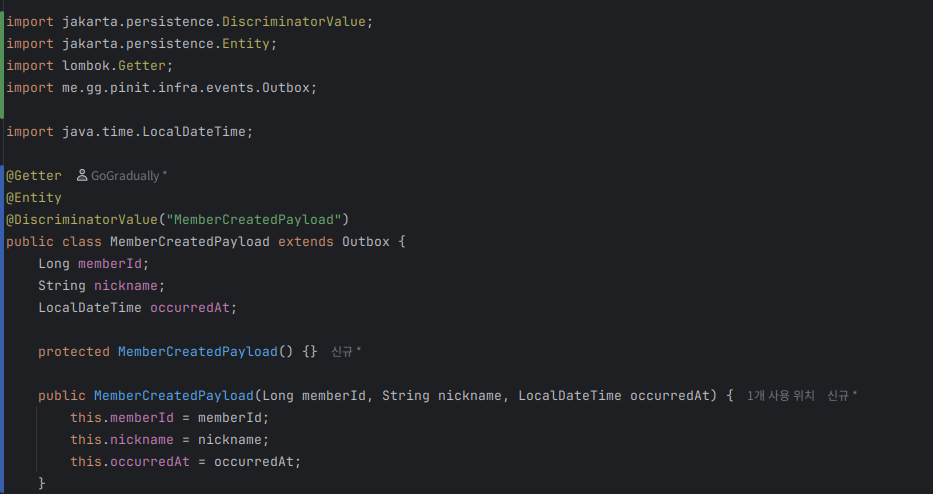
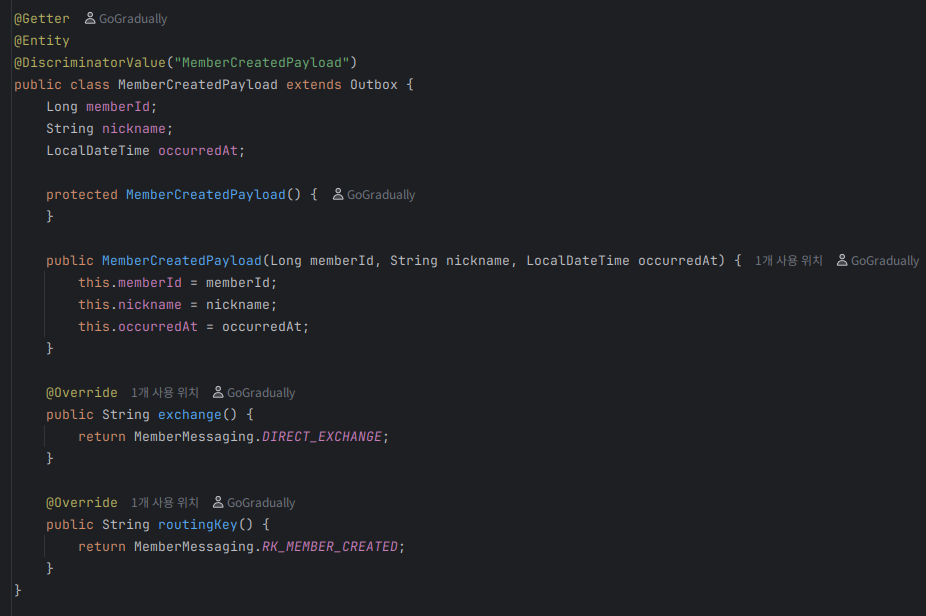
docs: 최종 일관성 도입 과정 문서 작성

diff --git a/planning/signupflow/signupPlan.md b/planning/signupflow/signupPlan.md
@@ -1,0 +1,161 @@
+## 회원가입 플로우, 이대로 괜찮은가? - 정합성 문제 해결 방안
+
+### 현재 구조
+
+```mermaid
+sequenceDiagram
+    participant user
+    participant pinit-auth
+participant pinit-task
+
+user->>pinit-auth: POST /signup (email, password)
+pinit-auth->>pinit-auth: create user record (inactive)
+pinit-auth--)pinit-task: 필요한 정보 전달
+pinit-auth->>user: 200 OK (signup initiated)
+user->>pinit-task: GET /myInfo
+pinit-task->>pinit-task: verify token
+pinit-task-->>user: 200 OK (user info)
+
+```
+
+### 문제 상황
+
+사용자가 이벤트가 도착하기 전 / 도착한 후의 처리 분류
+
+이미 로그인 성공은 확정이라고 가정
+
+로그인 성공 - 도착한 후
+
+- task 서버에서 사용자 정보를 정상 처리
+    - 정상 플로우
+
+로그인 성공 - 도착하기 전
+
+- task 서버에서 auth 서버에서 처리한 사용자 정보를 아직 못받음
+- 일정을 생성할 수 없음(예외 발생)
+    - 사용자의 지역 정보를 받아와야 하는데, user record 자체가 없음
+- 별명도 존재하지 않음
+
+task, auth 서버 간의 문제다.
+별명 정보는 필수가 아님.
+진짜 문제는 일정 생성이다.
+
+id값을 위조한 JWT 토큰은 만들 수 없다. (회원 탈퇴 후 기존 JWT를 사용하는 경우는 고려하지 않음)
+따라서, 해당 일정 조회는 해당 id가 있다고 가정하고 수행하는 것이 옳다.
+
+#### 선택지 1: task에서 ‘자동 프로비저닝’(Read-through / Lazy create)
+
+- task가 일정 조회 요청을 받았는데 user가 없으면
+    - auth(또는 user profile 서비스)로부터 최소정보를 조회하여 즉시 user를 생성 후 진행
+- 장점: UX/핵심 기능 보호, 이벤트 누락에도 복원 가능
+- 단점: task가 auth에 의존(런타임 결합)
+
+#### 선택지 2: 최종 일관성 유지 + 명확한 “준비중” 응답과 재시도
+
+- user가 없으면 404/500 대신 503 Service unavailable / 도메인 에러코드(USER_NOT_READY) 같은 형태로 반환
+    - 클라이언트 또는 BFF가 짧은 재시도(backoff) 후 재호출
+- 장점: 의존성 최소화, 상태가 명시적
+- 단점: UX에 재시도 로직 필요, 최종 일관성이 반드시 보장되어야 한다는 전제 필요
+    - 트랜잭션 아웃박스 패턴 설계 필요
+
+gRPC를 이용한 추가적 런타임 의존성 결합보단, 최종 일관성 유지 + 명확한 준비중 응답이 더 나아 보인다.
+
+실제로 자주 발생하지는 않을 예외이다. 이벤트 처리가 그렇게까지 느려진다면, 계산복잡도적 문제가 아닌 인프라 자체가 지나치게 안좋은 문제에 가깝다.
+
+1. DB에 해당 이벤트 저장
+2. After_commit 후 비동기 트랜잭션 새로 열어서 해당 이벤트 발행 후 삭제
+
+- 이때, AFTER_COMMIT 이기 때문에 새 트랜잭션은 커밋된 해당 이벤트를 볼 수 있다.(READ_COMMITTED 격리 수준)
+- 이벤트 발행 성공 후 트랜잭션이 롤백되면, 한번 더 발행하면 된다. (수신 측의 중복 처리는 idempotent 하게 설계하면 가능하다)
+    - 지수적 백오프 재시도
+
+3. task 서버는 이벤트 수신 후 사용자 정보 업데이트
+
+---
+
+### 로직 변경 방안
+
+현재 코드에서는 도메인 이벤트 퍼블리셔로 RabbitDomainEventPublisher가 사용되고 있었다.
+
+![img_1.png](현재%20이벤트%20퍼블리셔.png)
+
+실제 이벤트 발행은 다음과 같았다.
+
+![img.png](도메인%20이벤트%20발행.png)
+
+#### 현재 로직
+
+1. 회원가입 트랜잭션 커밋
+2. 이벤트 발행
+3. AFTER_COMMIT 후 비동기 트랜잭션에서 이벤트 발행
+
+이제 이를 위에 설계한 형식대로 변경해야 한다.
+
+#### 변경할 로직
+
+1. 회원가입 트랜잭션 내에서 도메인 이벤트 기록 (즉, 더이상 AFTER_COMMIT이 아님, 비동기적으로 동작하지도 않음)
+2. 이벤트 기록 후, 이벤트 발행을 시도하는 비동기 AFTER_COMMIT 메소드 호출 -> 애플리케이션 이벤트 발행.
+3. 해당 애플리케이션 이벤트 리스너에서 발행해야 하는 이벤트의 ID를 받아서, 도메인 이벤트 발행 시도
+
+#### 기본 Event Publisher 변경
+
+1. 도메인 이벤트 퍼블리셔의 변경
+   ![img.png](도메인%20이벤트%20퍼블리셔%20변경.png)
+
+도메인 이벤트 퍼블리셔를 이제 스프링 애플리케이션 이벤트 퍼블리셔를 사용하도록 변경했다.
+
+2. 이벤트 메시지를 저장하는 리포지토리 추가.
+
+이 이벤트를 기록하는 리포지토리는 DB 테이블 `Outbox` 를 사용했다.
+
+![img.png](Outbox%20테이블.png)
+
+해당 Outbox 테이블은 다형적 쿼리를 지원하기 위해 JPA의 Single Table 전략을 사용했다.
+
+이렇게 하면, 모든 Payload 타입이 이 outbox 테이블을 상속받음으로써, 단일 테이블에 저장된다.
+
+![img.png](MemberCreatedPayload.png)
+
+이제 이 본문을 저장할 repository를 추가했다.
+
+![img.png](OutboxRepository.png)
+
+#### 도메인 이벤트를 애플리케이션 이벤트(Outbox)로 변환
+
+다음과 같이 Outbox 테이블을 관리할 서비스를 추가했다.
+![img.png](outbox%20서비스.png)
+
+이때의 Outbox 객체는 싱글 테이블 전략을 사용하기 때문에
+
+- JPA 레벨에서 실제 객체 타입을 정해주고,
+- 다형성을 지원한다.
+
+이제 도메인 이벤트를 애플리케이션 이벤트로 변환하는 퍼블리셔를 작성했다.
+![img.png](도메인%20이벤트%20-%20애플리케이션%20이벤트%20변환%20및%20아웃박스%20저장.png)
+
+- @EventListener 어노테이션을 사용하여, 도메인 이벤트가 발생했을 때 Outbox 레코드를 생성한다.
+    - 이때, 트랜잭션 컨텍스트 내에서 동작하기 위해 @Async 와 @TransactionalEventListener 없이 사용되었다.
+    - 도메인 이벤트가 발생한 트랜잭션이 커밋되기 전까지는 Outbox 레코드가 생성되지 않는다.
+
+그리고 outboxService.save()는 해당 Outbox 레코드를 저장한 뒤, RabbitMQ 발행을 시도하는 비동기 AFTER_COMMIT 이벤트를 발행한다.
+
+![img_1.png](RabbitEvent.png)
+
+
+---
+
+### 지수적 백오프의 사용
+
+스프링 프레임워크 7부터는 @Retryable이 기본 기능으로 제공된다.
+
+![img.png](retryable%20docs.png)
+
+`@EnableResilienceMethods` 어노테이션을 설정하면, @Retryable을 사용할 수 있다.
+
+![img.png](EnableResilienceMethods.png)
+
+그리하여 다음과 같이 AFTER_COMMIT 메소드에서 아웃박스에 저장되어있는 이벤트 발행을 트리거하고,
+![img.png](아웃박스%20트리거.png)
+
+다음과 같이 @Retryable 어노테이션을 사용하여, 지수적 백오프 재시도를 구현했다.
+![img.png](지수적%20백오프%20재시도%20이벤트%20발행.png)

diff --git a/AGENTS.md b/AGENTS.md
@@ -1,0 +1,45 @@
+# Repository Guidelines
+
+## Project Structure & Modules
+
+- Spring Boot service with Java 21; main code lives in `src/main/java/me/gg/pinit` and config in `src/main/resources` (
+  `application.yml`).
+- Tests sit in `src/test/java/me/gg/pinit`; keep package mirrors of main code.
+- Build tooling is Gradle (`build.gradle`, `settings.gradle`, `gradlew` wrapper). No submodules at this time.
+
+## Build, Test, and Development
+
+- `./gradlew clean build` — compile, run checks, and produce the runnable JAR.
+- `./gradlew test` — run the JUnit/Spring Boot test suite.
+- `./gradlew bootRun` — start the app locally using `application.yml` (override secrets via env or
+  `application-local.yml` if added).
+
+## Coding Style & Naming
+
+- Java 21, 4-space indentation; follow standard Spring idioms.
+- Package prefix `me.gg.pinit`; class names `PascalCase`, methods/fields `camelCase`, constants `UPPER_SNAKE_CASE`.
+- Prefer Lombok for boilerplate already in use; keep constructor injection where possible.
+- Keep configuration keys kebab-case in YAML; avoid committing real secrets.
+
+## Testing Guidelines
+
+- Frameworks: JUnit + Spring Boot test starters (`spring-boot-starter-*-test`).
+- Naming: mirror package structure; test classes end with `Tests`; method names describe behavior (
+  `methodName_shouldDoThing`).
+- Fast cycle: `./gradlew test`; add focused slices where possible to avoid booting the full context.
+- Aim for coverage on security flows, token handling, and data access boundaries.
+
+## Commit & Pull Requests
+
+- Follow Conventional Commit flavor used so far (`chore: ...`, `feat: ...`, `fix: ...`); keep short, imperative
+  subjects.
+- PRs should state purpose, key changes, and impact; link issues if applicable.
+- Include test notes (`Tests: ./gradlew test`) and configs touched; add screenshots only if user-visible behavior
+  changes (rare here).
+
+## Security & Configuration
+
+- Do not commit real credentials; replace secrets in `application.yml` with env-driven values before pushing.
+- Prefer local overrides (`APPLICATION_SECRET`, `SPRING_DATASOURCE_*`, or a git-ignored `application-local.yml`) when
+  running dev instances.
+- Rotate JWT secrets and OAuth client secrets promptly; document any new environment variables in the PR description.***
